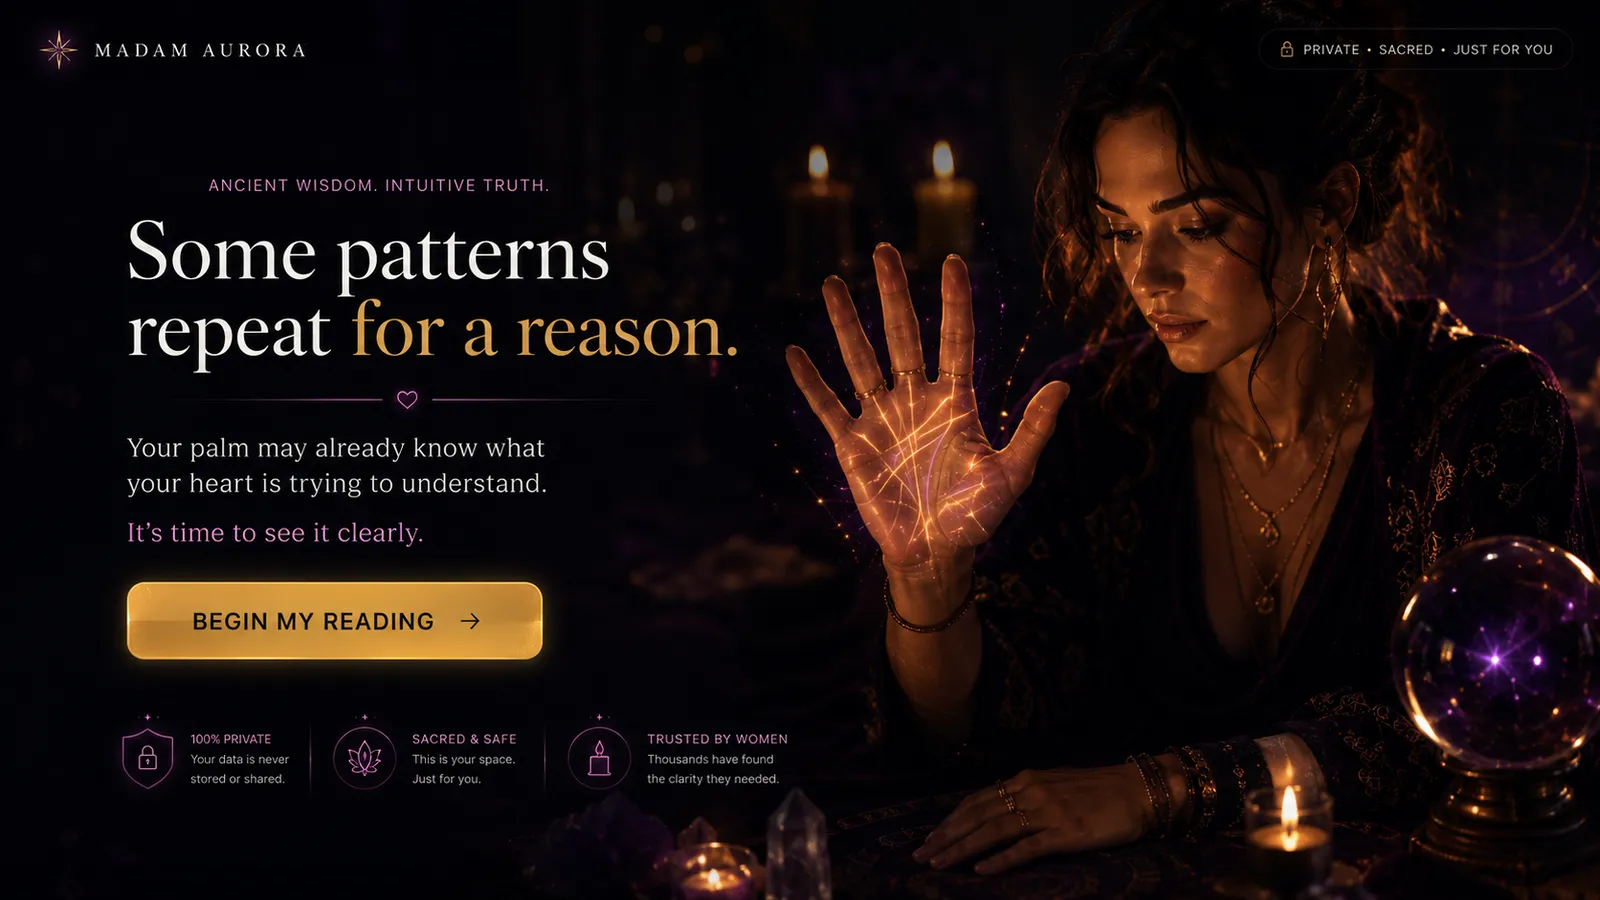
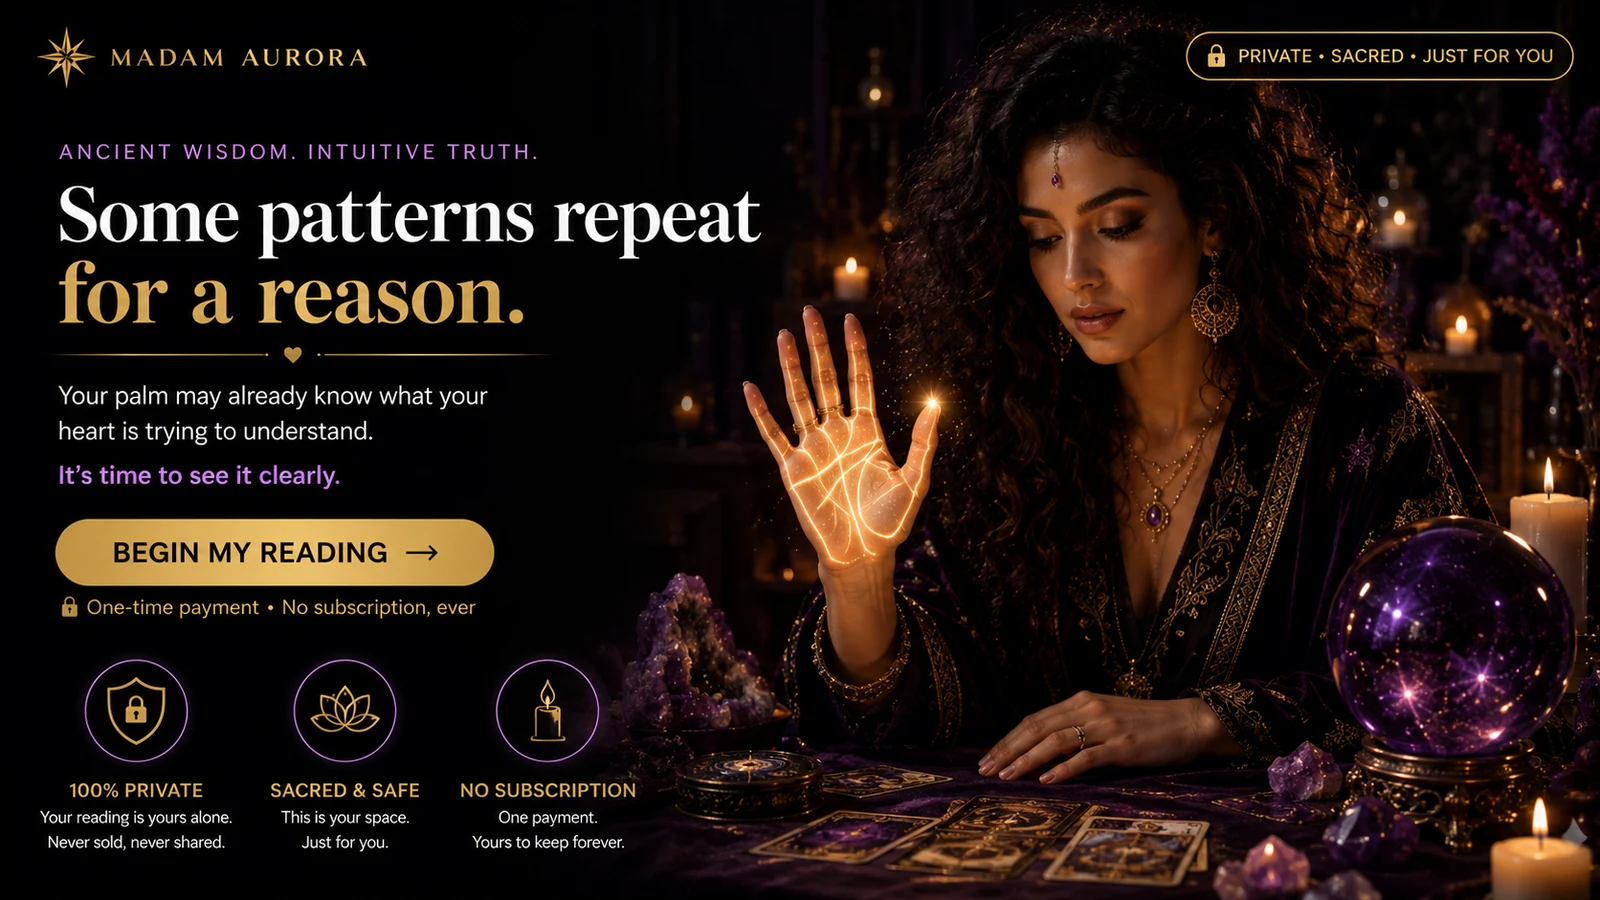
Ship compliant hero and offer artwork, recalibrate click targets
The hero's '100% PRIVATE / Your data is never stored or shared' badge was
false (leads and photos are stored to deliver the reading), and the offer
page sold a 'Conversation with Madam Aurora' that ships as a generated
audio session — a refund trigger. Both artworks replaced; the hero also
now surfaces the one-time-payment differentiator above the fold.

Button positions moved substantially in the new artwork, so every click
target was re-measured by colour detection against the final WebP and
rewritten. Verified in-browser: all six painted buttons resolve to their
handler when clicked at the painted centre.

Remove the offer section's kill layer and repositioned UGC strip. It
existed to cover testimonials painted into the old artwork; the new one
has none, and its pricing cards occupy that exact band — the opaque layer
would have covered the buttons it was meant to sit beside. The videos now
live in their own strip below the offer, with the disclaimer visible.

Artwork re-encoded to WebP: 7.1MB of PNG -> 718KB.

Claude-Session: https://claude.ai/code/session_01MmQuKcqHcPv1wcFxC4G6jN

diff --git a/src/components/results/ResultOfferSection.tsx b/src/components/results/ResultOfferSection.tsx
@@ -184,18 +184,49 @@ export const ResultOfferSection = ({ name: _name }: { name?: string }) => {
         <img src="/results/result-offers-mobile.webp"  alt="" aria-hidden className="block md:hidden w-full h-auto" draggable={false} />
 
         {/* ══ DESKTOP ══ */}
+        {/* Coordenadas medidas por detecção de cor na arte 1600x900 — os retângulos
+            cobrem exatamente os botões pintados. Se a arte for trocada, remedir. */}
 
         {/* Basic CTA */}
-        <div className="hidden md:block absolute" style={{ left: '26%', top: '49%', width: '20%', height: '8%', zIndex: 10 }}>
+        <div className="hidden md:block absolute" style={{ left: '27.9%', top: '70.9%', width: '25.1%', height: '8.2%', zIndex: 10 }}>
           <GlowButton onClick={() => handleCheckout('basic', 'offer_section_basic', fallback)} />
         </div>
         {/* Complete CTA */}
-        <div className="hidden md:block absolute" style={{ left: '49%', top: '49%', width: '31%', height: '8%', zIndex: 10 }}>
+        <div className="hidden md:block absolute" style={{ left: '59.9%', top: '71.8%', width: '28.5%', height: '8%', zIndex: 10 }}>
           <GlowButton gold onClick={() => handleCheckout('complete', 'offer_section_complete', fallback)} />
         </div>
-        {/* Kill layer + UGC strip */}
-        <div className="hidden md:block absolute" style={{ left: 0, right: 0, top: '57%', height: '27%', zIndex: 3, background: 'rgba(4,2,14,0.97)', backdropFilter: 'blur(14px)' }} />
-        <div className="hidden md:flex absolute" style={{ left: 0, right: 0, top: '58%', height: '24%', zIndex: 5, gap: 3, overflow: 'hidden' }}>
+
+        {/* ══ MOBILE ══ */}
+
+        {/* Basic CTA — meio ponto percentual de folga vertical para alvo de toque confortável */}
+        <div className="block md:hidden absolute" style={{ left: '27.5%', top: '40.9%', width: '53.1%', height: '4.7%', zIndex: 10 }}>
+          <GlowButton onClick={() => handleCheckout('basic', 'offer_section_basic_mobile', fallback)} />
+        </div>
+        {/* Complete CTA */}
+        <div className="block md:hidden absolute" style={{ left: '20.4%', top: '74.7%', width: '59.1%', height: '4.9%', zIndex: 10 }}>
+          <GlowButton gold onClick={() => handleCheckout('complete', 'offer_section_complete_mobile', fallback)} />
+        </div>
+
+      </section>
+
+      {/* ── Prova social em vídeo ──────────────────────────────────────────────
+          Ficava sobreposta à arte com um "kill layer" opaco, porque a arte antiga
+          trazia depoimentos pintados que precisavam ser encobertos. A arte nova não
+          tem depoimentos, e seus cards de preço ocupam justamente aquela faixa — o
+          kill layer cobriria os próprios botões. Agora é uma faixa própria, logo
+          abaixo da oferta. */}
+      {/* lineHeight explícito: o wrapper da página zera line-height para colar as
+          artes sem gap, e sem isto os dois parágrafos colapsam um sobre o outro. */}
+      <section style={{ background: '#07060f', padding: '28px 0 34px', lineHeight: 1.45 }}>
+        <p style={{ textAlign: 'center', color: 'rgba(255,255,255,0.92)', fontSize: 15, fontWeight: 600, margin: '0 0 4px', padding: '0 20px' }}>
+          Real reactions from people who explored their reading
+        </p>
+        <p style={{ textAlign: 'center', color: 'rgba(255,255,255,0.42)', fontSize: 11, margin: '0 0 16px', padding: '0 20px' }}>
+          Individual experiences vary. For reflection and entertainment.
+        </p>
+
+        {/* Desktop: três vídeos lado a lado */}
+        <div className="hidden md:flex" style={{ maxWidth: 1100, margin: '0 auto', height: 230, gap: 3, padding: '0 16px' }}>
           {VIDEOS.map(({ src, quote }, i) => (
             <StripCell
               key={src} src={src} quote={quote}
@@ -206,26 +237,10 @@ export const ResultOfferSection = ({ name: _name }: { name?: string }) => {
           ))}
         </div>
 
-        {/* ══ MOBILE ══ */}
-
-        {/* Basic CTA — tight to the painted "UNLOCK BASIC READING" button to avoid mis-taps */}
-        <div className="block md:hidden absolute" style={{ left: '14%', top: '31.5%', width: '72%', height: '4%', zIndex: 10 }}>
-          <GlowButton onClick={() => handleCheckout('basic', 'offer_section_basic_mobile', fallback)} />
-        </div>
-        {/* Complete CTA */}
-        <div className="block md:hidden absolute" style={{ left: '9%', top: '55%', width: '82%', height: '7%', zIndex: 10 }}>
-          <GlowButton gold onClick={() => handleCheckout('complete', 'offer_section_complete_mobile', fallback)} />
-        </div>
-        {/* Kill layer mobile */}
-        <div className="block md:hidden absolute" style={{ left: 0, right: 0, top: '62%', height: '20%', zIndex: 3, background: 'rgba(4,2,14,0.97)', backdropFilter: 'blur(14px)' }} />
-        {/* Carousel mobile — overflow:hidden garante que setas não saiam */}
-        <div
-          className="block md:hidden absolute"
-          style={{ left: '4%', right: '4%', top: '63%', height: '17%', zIndex: 5, borderRadius: 10, overflow: 'hidden' }}
-        >
+        {/* Mobile: carrossel */}
+        <div className="block md:hidden" style={{ height: 260, margin: '0 16px', borderRadius: 10, overflow: 'hidden' }}>
           <MobileCarousel onOpen={setModalSrc} />
         </div>
-
       </section>
 
       {/* Modal de vídeo full-screen — abre ao clicar qualquer UGC */}

diff --git a/src/pages/VSL.tsx b/src/pages/VSL.tsx
@@ -251,8 +251,8 @@ const VSL = () => {
         ctaAreas={[
           {
             section: "hero",
-            desktopStyle: { left: "3%", top: "64%", width: "40%", height: "14%" },
-            mobileStyle: { left: "5%", top: "76%", width: "90%", height: "12%" },
+            desktopStyle: { left: "3.5%", top: "57.7%", width: "27.4%", height: "7.3%" },
+            mobileStyle: { left: "14.8%", top: "70.8%", width: "71.4%", height: "6.6%" },
             label: "Begin My Reading",
           },
         ]}
